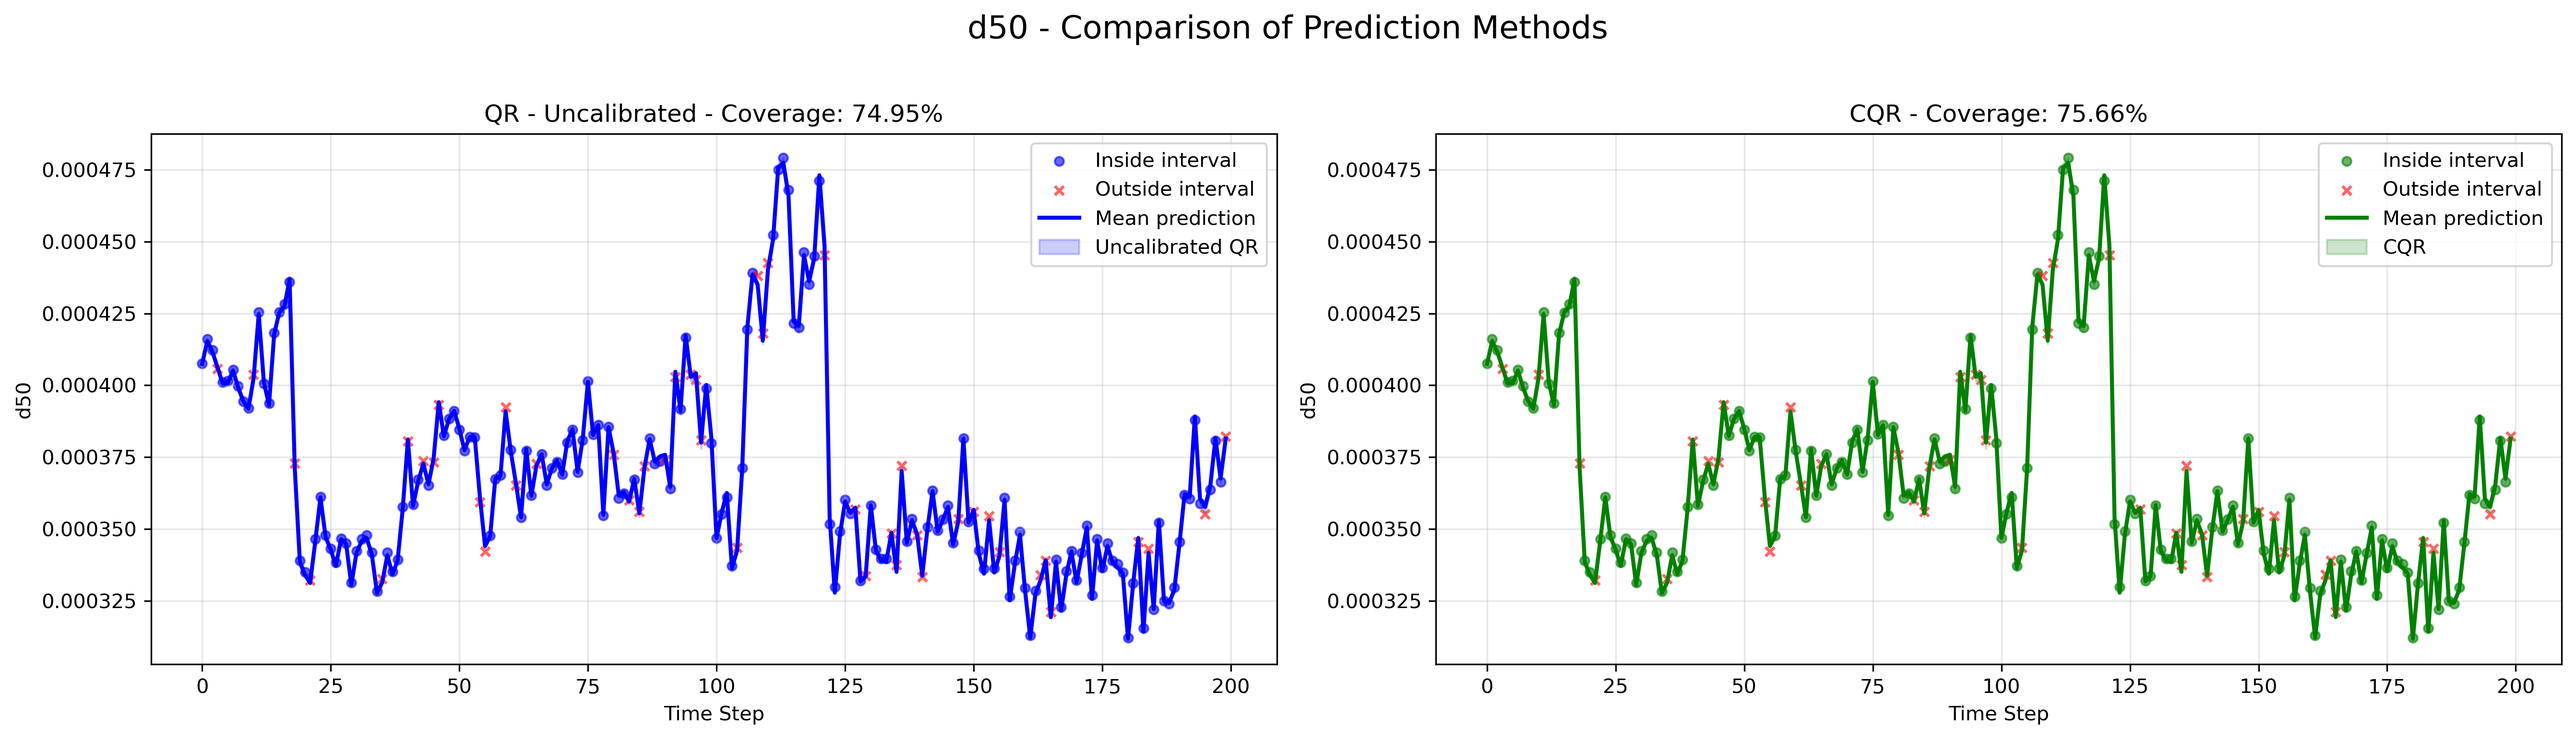
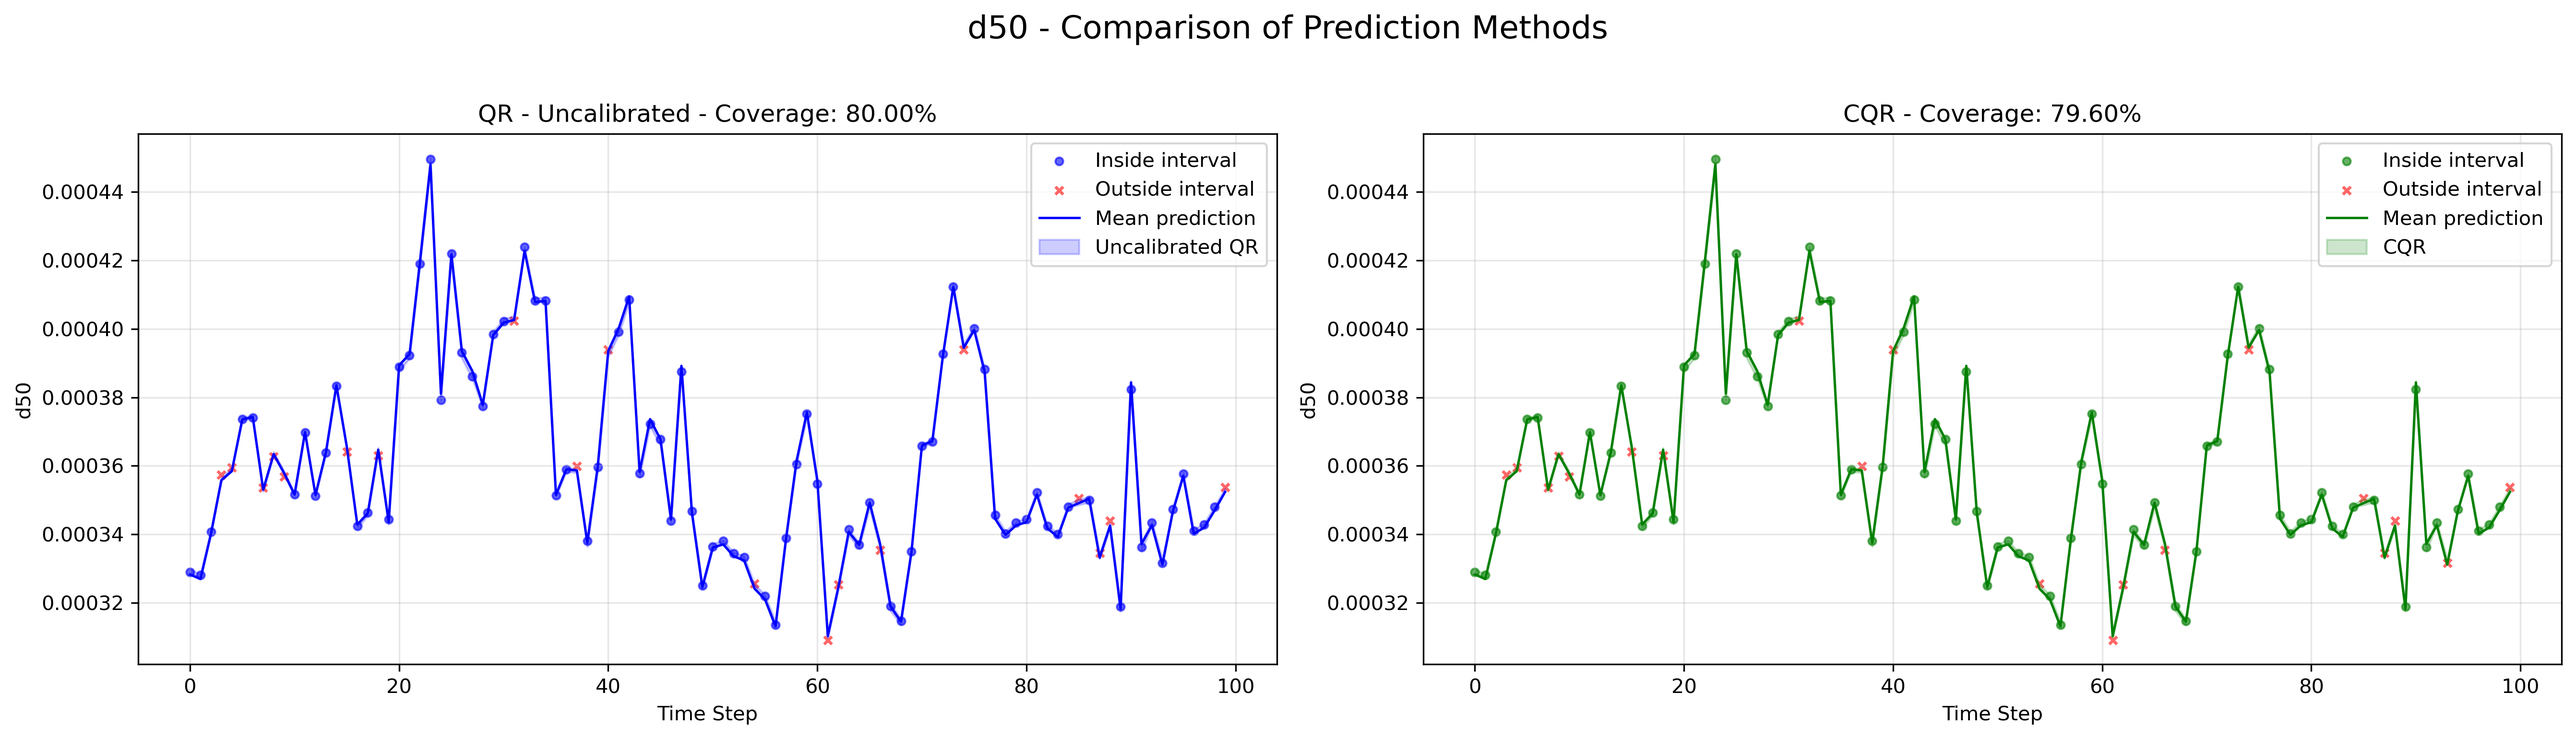
Update plots

diff --git a/tools/cqr/cqr_simple.py b/tools/cqr/cqr_simple.py
@@ -25,7 +25,7 @@ DEVICE = torch.device("cuda" if torch.cuda.is_available() else "cpu")
 TAU_LOW = 0.1
 TAU_HIGH = 0.9
 ALPHA = 1 - (TAU_HIGH - TAU_LOW)
-SEED = 40
+SEED = 44
 
 random.seed(SEED)
 
@@ -90,10 +90,7 @@ def generate_error_dataset(model, data_files, window_size, scaler):
     all_errors = {f'state_{i}': [] for i in range(STATE_COLS)}
     
     with torch.no_grad():
-        for i, file_path in enumerate(data_files):
-            if i % 5 == 0:
-                print(f"  Processing file {i+1}/{len(data_files)}...")
-            
+        for file_path in data_files:
             X, Y = load_batch_data(file_path, window_size, scaler)
             X_tensor = torch.tensor(X, dtype=torch.float32).to(DEVICE)
             Y_tensor = torch.tensor(Y, dtype=torch.float32)
@@ -239,7 +236,7 @@ def compute_all_predictions_and_coverage(model, quantile_models, correction_fact
             cal_coverage = np.mean((Y_true_uns >= cal_lower_uns) & (Y_true_uns <= cal_upper_uns)) * 100
 
             # For plotting, sample a subset
-            n_plot_points = min(200, len(X))
+            n_plot_points = min(100, len(X))
             plot_indices = np.linspace(0, len(X)-1, n_plot_points, dtype=int)
 
             # Store all computed results
@@ -306,10 +303,10 @@ def plot_selected_file_results(selected_results, save_dir):
         uncal_inside = (Y_true_uns >= uncal_lower_uns) & (Y_true_uns <= uncal_upper_uns)
         
         ax2.scatter(x_plot[uncal_inside], Y_true_uns[uncal_inside], 
-                   c='blue', s=20, alpha=0.6, label='Inside interval')
+                   c='blue', s=15, alpha=0.6, label='Inside interval')
         ax2.scatter(x_plot[~uncal_inside], Y_true_uns[~uncal_inside], 
-                   c='red', s=20, alpha=0.6, marker='x', label='Outside interval')
-        ax2.plot(x_plot, Y_pred_uns, 'b-', linewidth=2, label='Mean prediction')
+                   c='red', s=15, alpha=0.6, marker='x', label='Outside interval')
+        ax2.plot(x_plot, Y_pred_uns, 'b-', linewidth=1.2, label='Mean prediction')
         ax2.fill_between(x_plot, uncal_lower_uns, uncal_upper_uns, 
                         alpha=0.2, color='blue', label='Uncalibrated QR')
         ax2.set_xlabel('Time Step')
@@ -322,10 +319,10 @@ def plot_selected_file_results(selected_results, save_dir):
         cal_inside = (Y_true_uns >= cal_lower_uns) & (Y_true_uns <= cal_upper_uns)
         
         ax3.scatter(x_plot[cal_inside], Y_true_uns[cal_inside], 
-                   c='green', s=20, alpha=0.6, label='Inside interval')
+                   c='green', s=15, alpha=0.6, label='Inside interval')
         ax3.scatter(x_plot[~cal_inside], Y_true_uns[~cal_inside], 
-                   c='red', s=20, alpha=0.6, marker='x', label='Outside interval')
-        ax3.plot(x_plot, Y_pred_uns, 'g-', linewidth=2, label='Mean prediction')
+                   c='red', s=15, alpha=0.6, marker='x', label='Outside interval')
+        ax3.plot(x_plot, Y_pred_uns, 'g-', linewidth=1.2, label='Mean prediction')
         ax3.fill_between(x_plot, cal_lower_uns, cal_upper_uns, 
                         alpha=0.2, color='green', label='CQR')
         ax3.set_xlabel('Time Step')
@@ -356,7 +353,7 @@ def run_cqr_pipeline(model_path, data_path, results_dir, window_size):
     print(f"\nRunning CQR pipeline for {cluster_name}")
     
     # Load data files and split
-    data_files = [os.path.join(data_path, f) for f in os.listdir(data_path) if f.endswith(".txt")]
+    data_files = [os.path.join(data_path, f) for f in os.listdir(data_path)]
     train_files, temp_files = train_test_split(data_files, test_size=0.3, random_state=SEED)
     cal_files, test_files = train_test_split(temp_files, test_size=0.5, random_state=SEED)
     
